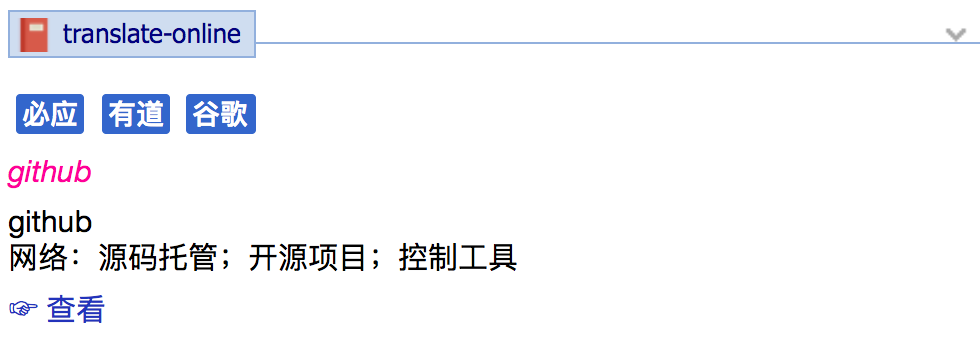
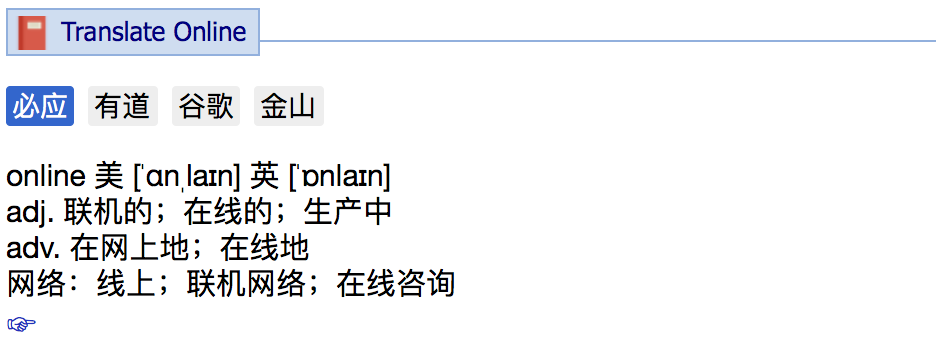
release 3.0

Changed region(s): [[0.0, 0.4375, 0.5267, 0.9375], [0.0, 0.0, 1.0, 0.1875], [0.0, 0.2188, 0.3408, 0.4062]]

diff --git a/src/main/java/com/translate/online/util/ParserUtil.java b/src/main/java/com/translate/online/util/ParserUtil.java
@@ -25,9 +25,10 @@ public class ParserUtil {
     private static final String style_fontSizeLineHeight = "font-size:100%;line-height:1.2em;";
 
     public static final String style_translateBase = style_wordWrap + style_color + style_font + style_fontSizeLineHeight;
-    public static final String style_translateOnlineType = "display:inline-block;font-weight:bold;margin:.2em .3em;padding:1px 3px;background-color:#36c;border-radius:2px;color:#fff;font-size:90%;";
-    public static final String style_translateOnlineEntry = "font-style:italic;color:#f09;margin:.5em auto;display:inline-block;";
-    public static final String style_translateOnlineSee = "display:inline-block;margin-top:.5em;";
+    public static final String style_translateOnlineType = "display:inline-block;margin-right:.5em;padding:1px 3px;background-color:#eee;border-radius:2px;color:#000;font-size:90%;";
+    public static final String style_translateOnlineTypeChecked = "background-color:#36c;color:#fff;";
+    public static final String style_translateOnlineTypeParent = "margin-bottom:1em;";
+    public static final String style_translateOnlineSee = "display:inline-block;margin-top:.2em;";
     public static final String style_translateOnlineError = "background-color:#fc6;padding:.5em 1em;";
 
     /**

diff --git a/src/main/java/com/translate/online/Main.java b/src/main/java/com/translate/online/Main.java
@@ -25,12 +25,13 @@ public class Main {
         // 输出列表
         StringBuffer parserHtml = new StringBuffer();
         for (String s : Parser.entryParser.keySet()) {
-            parserHtml.append(ParserUtil.wrapA("type=" + s + "entry=" + entry, ParserUtil.style_translateOnlineType, s));
+            if (type.length() > 0 && entry.length() > 0 && s.equals(type.toString()))// 选中
+                parserHtml.append(ParserUtil.wrapA(entry.toString(),
+                        ParserUtil.style_translateOnlineType + ParserUtil.style_translateOnlineTypeChecked, s));
+            else// 未选中
+                parserHtml.append(ParserUtil.wrapA("type=" + s + "entry=" + entry, ParserUtil.style_translateOnlineType, s));
         }
-        out.append(ParserUtil.wrapDiv(parserHtml.toString()));
-
-        // 输出entry
-        out.append(ParserUtil.wrapDiv(ParserUtil.wrapA(entry.toString(), ParserUtil.style_translateOnlineEntry, entry.toString())));
+        out.append(ParserUtil.wrapDiv(ParserUtil.style_translateOnlineTypeParent, parserHtml.toString()));
 
         // 输出正文
         if (type.length() > 0 && entry.length() > 0) {

diff --git a/src/main/java/com/translate/online/parser/Parser.java b/src/main/java/com/translate/online/parser/Parser.java
@@ -12,6 +12,7 @@ public abstract class Parser {
         entryParser.put(BingParser.TYPE, BingParser.class);
         entryParser.put(YoudaoParser.TYPE, YoudaoParser.class);
         entryParser.put(GoogleParser.TYPE, GoogleParser.class);
+        entryParser.put(IcibaParser.TYPE, IcibaParser.class);
     }
 
     /**
@@ -21,7 +22,7 @@ public abstract class Parser {
         try {
             Parser parser = (Parser) entryParser.get(type).newInstance();
             return ParserUtil.wrapDiv(parser.parse(entry)) +
-                    ParserUtil.wrapDiv(ParserUtil.wrapA(parser.link(entry), ParserUtil.style_translateOnlineSee, "☞ 查看"));
+                    ParserUtil.wrapDiv(ParserUtil.wrapA(parser.link(entry), ParserUtil.style_translateOnlineSee, "☞"));
         } catch (Exception e) {
             return ParserUtil.wrapDiv(ParserUtil.style_translateOnlineError,
                     "parse error!" + "<br>" + "type: " + type + "<br>" + "entry: " + entry + "<br>" + ParserUtil.exceptionToString(e));

diff --git a/src/main/java/com/translate/online/parser/IcibaParser.java b/src/main/java/com/translate/online/parser/IcibaParser.java
@@ -1,0 +1,28 @@
+package com.translate.online.parser;
+
+import com.translate.online.util.MatcherUtil;
+import com.translate.online.util.ParserUtil;
+
+import java.util.regex.Matcher;
+
+public class IcibaParser extends Parser {
+    public static final String TYPE = "金山";
+
+    @Override
+    protected String link(String entry) {
+        return "http://www.iciba.com/" + entry;
+    }
+
+    @Override
+    protected String parse(String entry) throws Exception {
+        String url = "http://open.iciba.com/huaci_new/dict.php?word=" + entry;
+        String html = ParserUtil.getUrl(url);
+        html = html.replaceAll("<a[^>]*?>([^<>]*?)</a>", "$1")
+                .replace("<p", "<div")
+                .replace("</p>", "</div>");
+        Matcher matcher = MatcherUtil.getMatcher("dict.innerHTML='([\\s\\S].*?)';\n" + "   \tvar loading", html);
+        StringBuffer sb = new StringBuffer();
+        sb.append(MatcherUtil.getGroup(matcher, 1));
+        return sb.toString();
+    }
+}

diff --git a/src/test/java/com/translate/online/parser/IcibaParserTest.java b/src/test/java/com/translate/online/parser/IcibaParserTest.java
@@ -1,0 +1,15 @@
+package com.translate.online.parser;
+
+import org.junit.Test;
+
+public class IcibaParserTest {
+    @Test
+    public void parse() throws Exception {
+        String type = "金山";
+        System.out.println(Parser.get(type, "test"));
+        System.out.println(Parser.get(type, "take off"));
+        System.out.println(Parser.get(type, "His theories have never really been put to the test."));
+        System.out.println(Parser.get(type, "测试"));
+    }
+
+}

diff --git a/readme.md b/readme.md
@@ -15,7 +15,7 @@ key|value
 ---|-----
 Enabled|✓
 Type|Html
-Name|translate-online
+Name|Translate Online
 Command Line|java -jar C:\translate-online.jar %GDWORD%
 Icon|C:\translate-online.png
 
@@ -41,5 +41,6 @@ mvn clean compile package -Dmaven.test.skip=true
 ### release:
 version|hash(SHA1) `translate-online.jar`
 -------|----
+3.0|`976bfa3eaeaa78b8013788704d9141b3aed92dbe`
 2.0|`80d5aa5e8f529827c329e34d22183497182af681`
 1.0|`80f648143f0410a679d9de4c83cccec7ddbf87b8`
